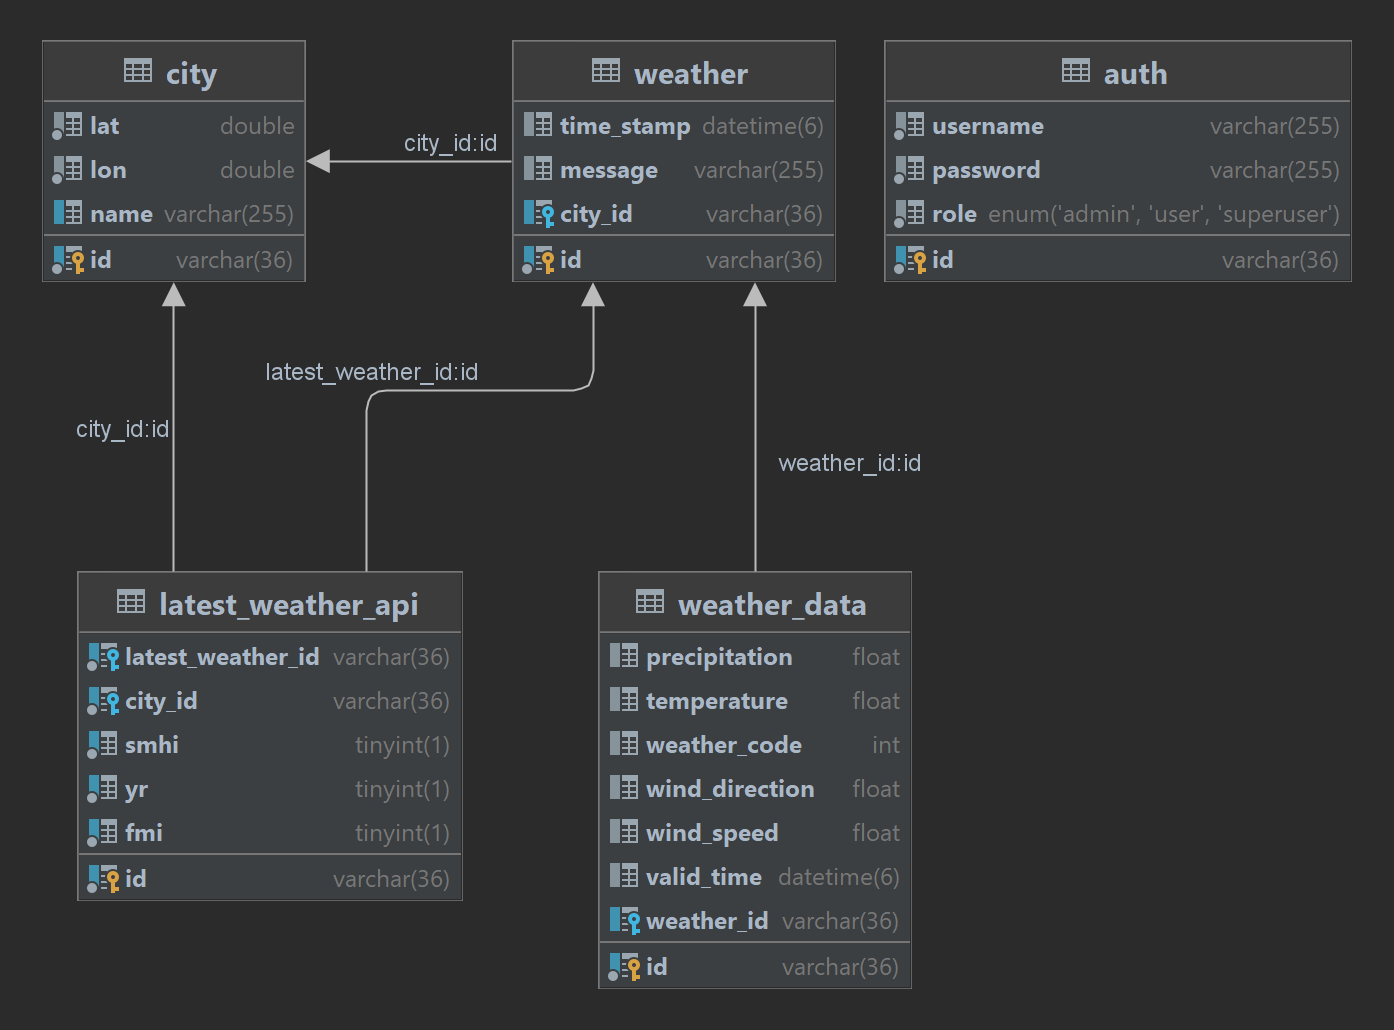
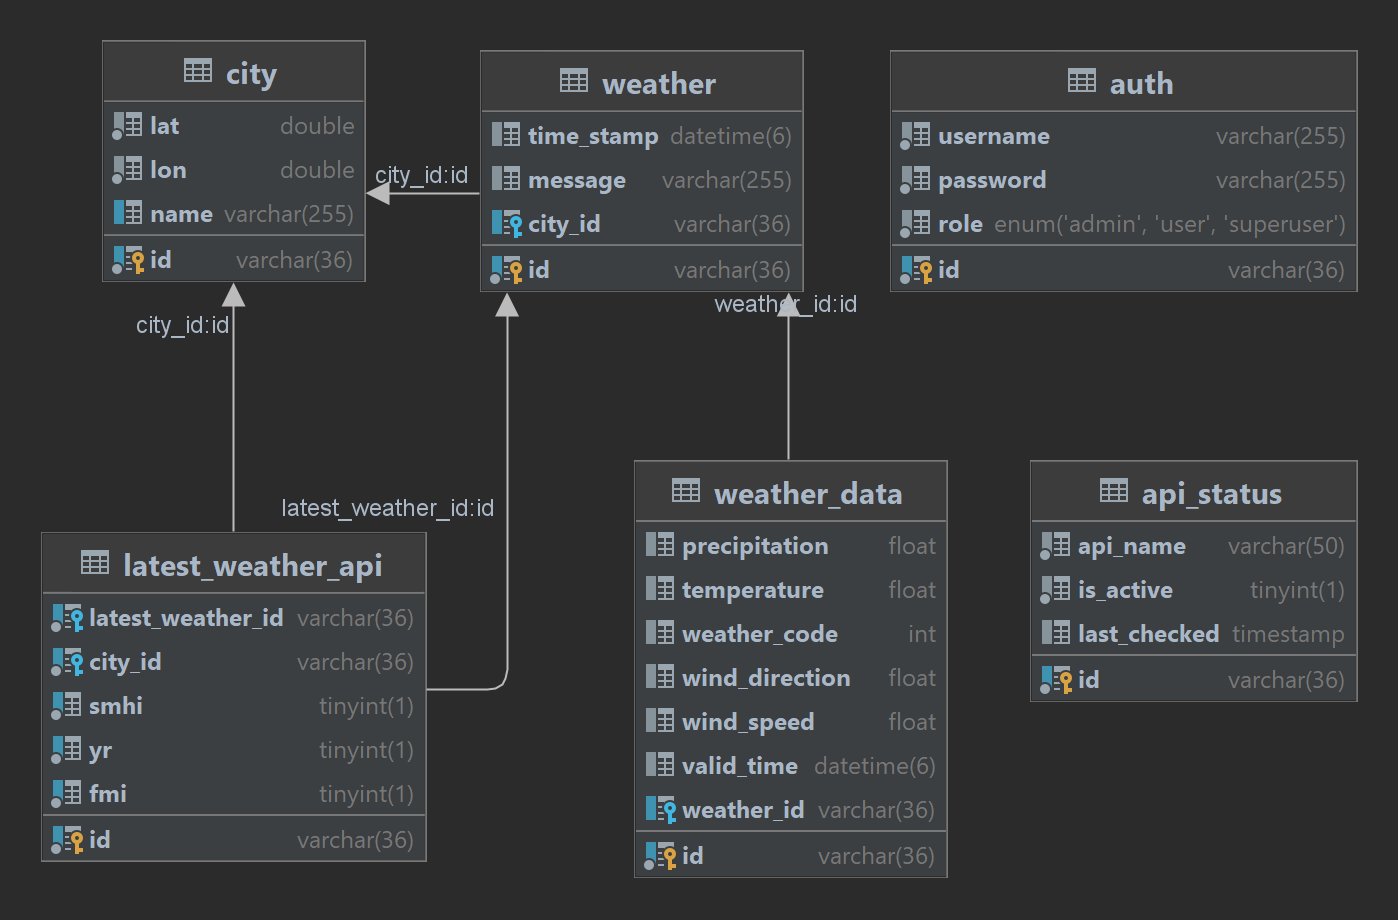
Updated database to reflect reality with api_status added

diff --git a/README.md b/README.md
@@ -61,6 +61,15 @@ Stores keys for the latest weather data for each city
 - **yr**: Boolean value indicating if the weather contains data from YR.
 - **fmi**: Boolean value indicating if the weather contains data from FMI.
 
+#### 6. API Status Table
+
+Stores information if an API is enabled or disabled.
+
+- **id**: Unique identifier for the API status record.
+- **api_name**: The name of the API.
+- **is_active**: Boolean value indicating if the API is enabled or disabled.
+- **last_checked**: The timestamp of the last update to the API status.
+
 
 ### Database schema is shown in the image below:
 
